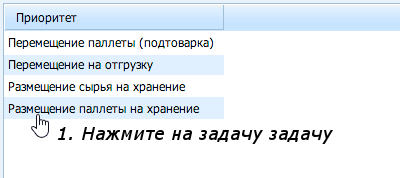
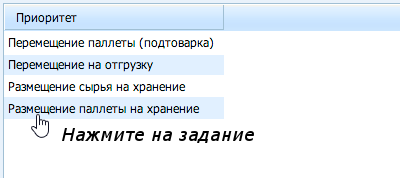
done

Changed region(s): [[0.15, 0.7022, 0.84, 0.8146]]

diff --git a/admin/notes.js b/admin/notes.js
@@ -12,7 +12,7 @@
         <td class="padding-right: 10px; vertical-align: top;">
         Режим позволяет уставналивать приоритет для заданий.
         Чем выше позиция в списке, тем выше приоритет для задания.</br>
-        1) Выберите задачу для изменения приоритета</br></br>
+        1) Выберите задание для изменения приоритета</br></br>
             <img src="/static/img/tasks/2.png" /></br></br>
         2) Неотпуская кнопку мышки, перенесите на новую позицию.</br>
         <img src="/static/img/tasks/3.png" />
